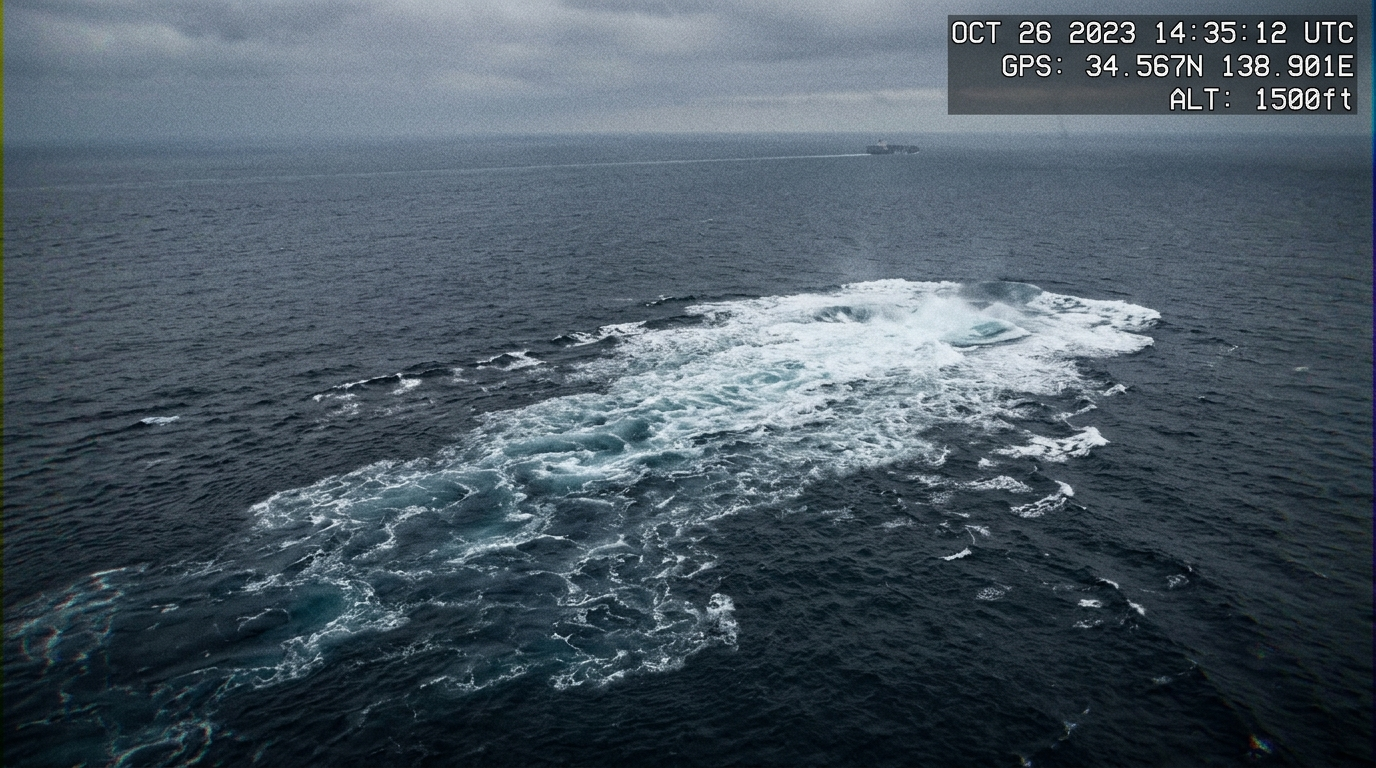
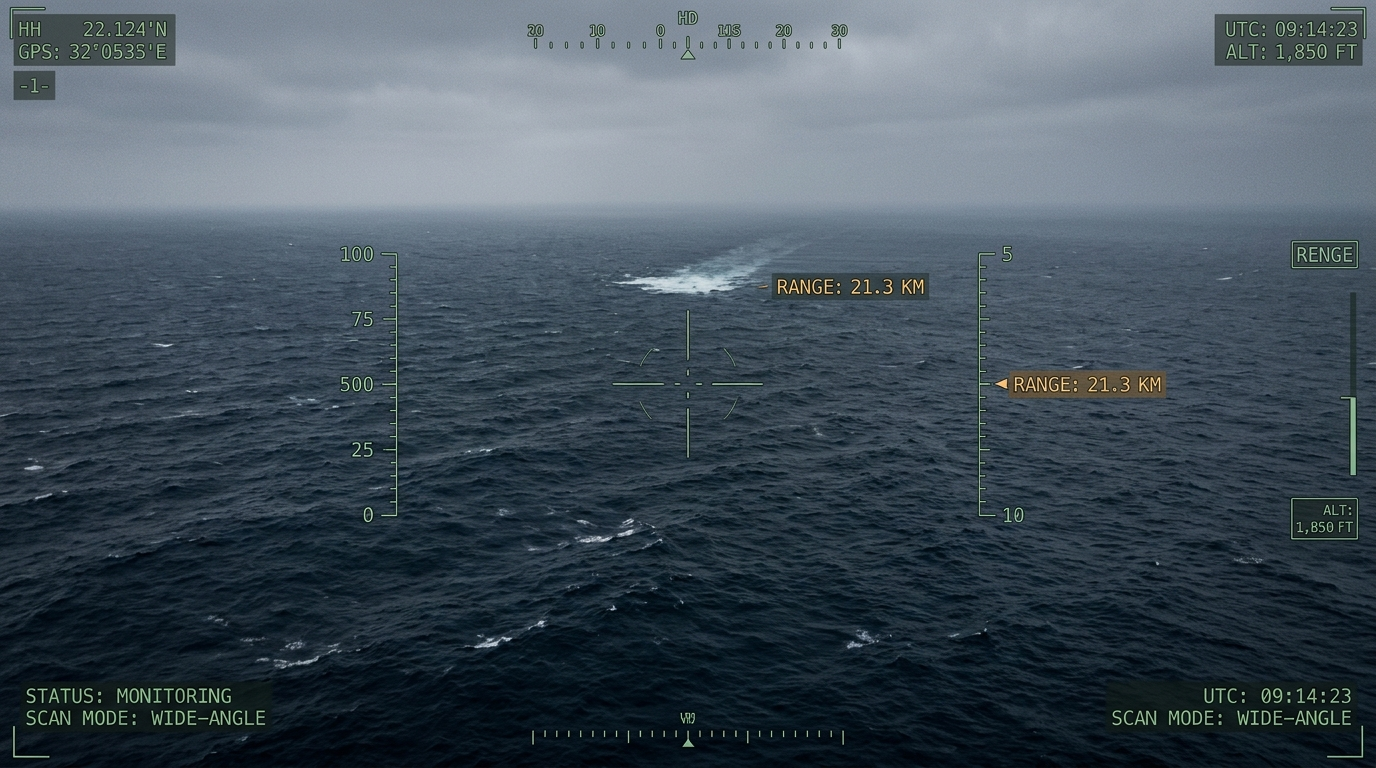
fix(photos): 成功写真を紡錘形遊泳・長触手化、失敗写真を船舶なし超遠方21km観測図へ刷新

diff --git a/src/components/TimelineBoard.tsx b/src/components/TimelineBoard.tsx
@@ -972,18 +972,18 @@ export const TimelineBoard: React.FC<TimelineBoardProps> = ({
                           </div>
 
                           <div className="grid grid-cols-2 gap-1.5 text-[10px] font-mono text-slate-300 mb-2">
-                            <div>高度: <strong>350 ft (約105m)</strong></div>
+                            <div>高度: <strong>1,500 ft (約450m)</strong></div>
                             <div>海域: <strong>鳥島北西 約40km</strong></div>
                             <div>速度: <strong>時速約6km 北上</strong></div>
-                            <div>機材: <strong>FLIR赤外光学ポッド</strong></div>
+                            <div>機材: <strong>光学・赤外線ポッド</strong></div>
                           </div>
 
                           <div className="space-y-1.5 text-[11px] text-slate-300 leading-relaxed">
                             <p>
-                              ・<strong className="text-white">目視確認</strong>: 巨大生物の後方からの撮影に成功。海面下に不鮮明ながら<strong>無数の巨大な触手と胴体のシルエット</strong>がはっきりと確認できる。
+                              ・<strong className="text-white">遊泳形態</strong>: 前進遊泳する巨大生物の後方からの撮影に成功。胴体と触手が<strong>流線型の紡錘形（トルペード状）</strong>に整然とまとまり、その背後へ<strong>極めて長く伸びる無数の触手</strong>が海面下に確認できる。
                             </p>
                             <p>
-                              ・<strong className="text-white">航跡波（ケルビン波）</strong>: 海面直下を泳ぎ去る巨大な質量により、幅数百メートルに及ぶ猛烈な白波と渦流が発生。
+                              ・<strong className="text-white">航跡波（ケルビン波）</strong>: 海面直下十数mを高速遊泳する巨大な質量により、V字型の巨大な白波が周囲へ押し出されている。
                             </p>
                             <p>
                               ・<strong className="text-white">生態矛盾</strong>: Day 1のダイオウイカ組織鑑定（F-1）と一致するが、全長数百mは異常。無数の個体が結合した<strong>「超群体」</strong>である疑いが濃厚。
@@ -1014,7 +1014,7 @@ export const TimelineBoard: React.FC<TimelineBoardProps> = ({
                         />
                         <div className="absolute inset-0 bg-gradient-to-t from-slate-950/85 via-transparent to-transparent flex items-end justify-between p-2.5 pointer-events-none">
                           <span className="text-[11px] font-semibold text-amber-200">
-                            ⚠ セクター特定失敗：約20km彼方に航跡波のみ確認
+                            ⚠ セクター特定失敗：約21km彼方に航跡波のみ確認
                           </span>
                           <span className="rounded bg-black/70 px-2 py-0.5 text-[10px] text-white backdrop-blur flex items-center gap-1">
                             <Maximize2 className="h-3 w-3" /> クリックで拡大
@@ -1030,26 +1030,26 @@ export const TimelineBoard: React.FC<TimelineBoardProps> = ({
                               【特定失敗：遠方目視観測調書】
                             </span>
                             <span className="text-[9px] font-mono px-1.5 py-0.5 rounded bg-amber-950 border border-amber-700 text-amber-300">
-                              捜索空振り
+                              RANGE: 21.3 KM
                             </span>
                           </div>
 
                           <div className="grid grid-cols-2 gap-1.5 text-[10px] font-mono text-slate-300 mb-2">
-                            <div>高度: <strong>1,500 ft (約450m)</strong></div>
-                            <div>距離: <strong>目標まで約20km離脱</strong></div>
+                            <div>高度: <strong>1,850 ft (約560m)</strong></div>
+                            <div>距離: <strong>目標まで 21.3 km</strong></div>
+                            <div>海域: <strong>船舶なし（完全外洋）</strong></div>
                             <div>潜航: <strong>深度800mへ急速潜航</strong></div>
-                            <div>機材: <strong>超望遠光学レンズ</strong></div>
                           </div>
 
                           <div className="space-y-1.5 text-[11px] text-slate-300 leading-relaxed">
                             <p>
-                              ・<strong className="text-white">目視状況</strong>: <strong>約20km先の海で巨大生物の起こす波</strong>が見えるが、ヘリが近づいたときにはすでに深海へと急速潜航してしまっており捉えられない。
+                              ・<strong className="text-white">超遠方目視</strong>: 船舶の全くない広大な外洋の<strong>約21km彼方（水平線手前）</strong>に、巨大生物の起こした異常な海水隆起と白波の泡立ちを観測。
                             </p>
                             <p>
-                              ・<strong className="text-white">海面の痕跡</strong>: 巨大な渦紋と白波の泡立ちのみが残留。本体の直接撮影には至らず、音響捜索の重要性を痛感させる。
+                              ・<strong className="text-white">ヘリ急行後</strong>: ヘリが現場へ到達したときには、怪物は接近を察知してすでに深海800m以深へ急速潜航してしまっており捉えられない。
                             </p>
                             <p>
-                              ・<strong className="text-white">GM進行メモ</strong>: 特定失敗時はこの写真を提示し、「20km先で大波を目視したが、急行した時にはすでに潜航してしまっていた」と説明してください。
+                              ・<strong className="text-white">GM進行メモ</strong>: 特定失敗時はこの写真を提示し、「20km以上先で大波を目視したが、急行した時にはすでに潜航してしまっていた」と説明してください。
                             </p>
                           </div>
                         </div>
@@ -1620,8 +1620,8 @@ export const TimelineBoard: React.FC<TimelineBoardProps> = ({
                   </h3>
                   <p className="text-[11px] text-slate-400 font-mono">
                     {day3PhotoModal === "success"
-                      ? "TIME: 14:38:21 UTC | ALT: 350 FT | SENSOR: FLIR OPTICAL POD | TARGET: SUB-SURFACE ENTITY"
-                      : "TIME: 14:35:12 UTC | ALT: 1,500 FT | SENSOR: TELEPHOTO OPTICAL | STATUS: TARGET DIVED"}
+                      ? "TIME: 14:32:01 UTC | ALT: 1,500 FT | GPS: 14°N 165°W | TARGET: SUB-SURFACE ENTITY (SPINDLE FORM)"
+                      : "TIME: 09:14:23 UTC | ALT: 1,850 FT | RANGE: 21.3 KM | STATUS: EMPTY OCEAN / TARGET DIVED"}
                   </p>
                 </div>
               </div>
@@ -1695,14 +1695,14 @@ export const TimelineBoard: React.FC<TimelineBoardProps> = ({
               <p className="text-[11px] text-slate-300 leading-relaxed">
                 {day3PhotoModal === "success" ? (
                   <>
-                    ・高度350フィート、捜索ヘリより怪物の後方からの撮影に成功。<br />
-                    ・海面下十数メートルをうねる巨大な胴体と、放射状に広がる不鮮明ながら無数の触手シルエットを目視確認。<br />
+                    ・高度1,500フィート、捜索ヘリより前進遊泳する巨大生物の後方からの撮影に成功。<br />
+                    ・海面下を前進遊泳する胴体と触手が<strong>流線型の紡錘形（トルペード状）</strong>に整然とまとまり、背後へ<strong>極めて長く伸びる無数の触手</strong>が海面下に鮮明に確認できる。<br />
                     ・背後には猛烈な白波とV字型のケルビン波が渦巻いており、時速約6kmで鳥島から正確に北上中。<br />
                     ・ダイオウイカの形態特徴を持つが、全長300〜400メートルに及ぶサイズは単体生物としては説明がつかず、「超群体」である疑いが強まる。
                   </>
                 ) : (
                   <>
-                    ・高度1,500フィートからの望遠撮影。約20km彼方の海面に怪物が起こした異常な海水隆起と白波を目視観測。<br />
+                    ・高度1,850フィート、超広角カメラによる観測。船舶が一切存在しない広大で荒涼とした外洋の<strong>約21km彼方（水平線手前）</strong>に、巨大生物の引き起こした異常な海水隆起と白波の泡立ちを捕捉。<br />
                     ・しかしヘリが急行したときには、怪物はヘリの接近を警戒してすでに深海800m以深へ急速潜航してしまっていた。<br />
                     ・直接の姿を捉えることはできなかったが、海面に残された波の規模から全長数百mの質量が実在することを裏付けている。
                   </>
